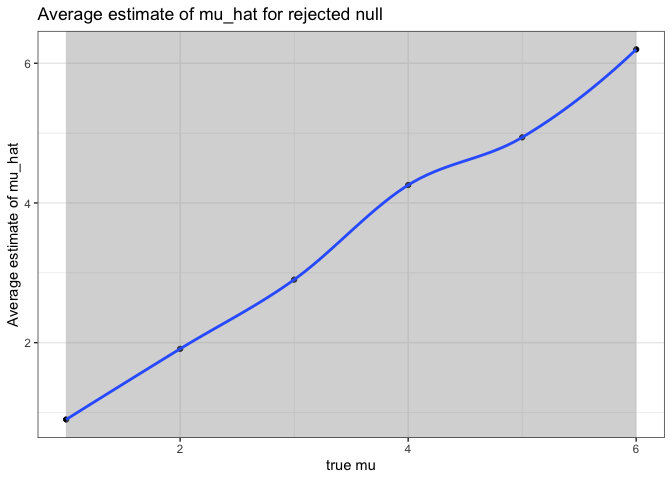
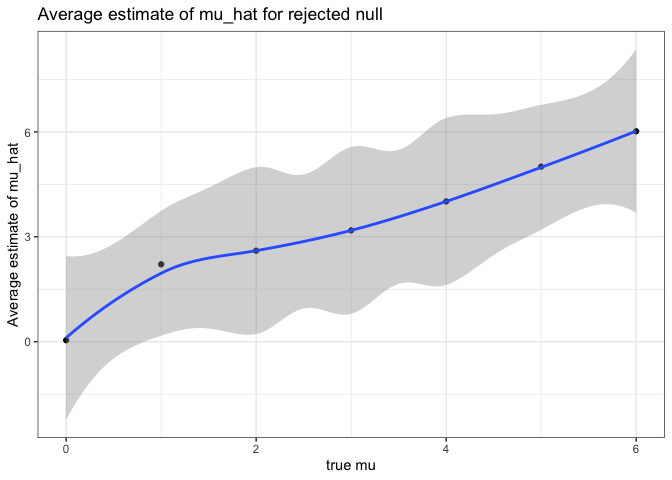
revised problem 3.

diff --git a/mf3593.md b/mf3593.md
@@ -125,7 +125,7 @@ set.seed(1)
 sim_mean_p=function(samp_size=30,mu,sigma=5) {
 
   x=rnorm(n=samp_size,mean=mu,sd=sigma)
-  result=t.test(x,mu=mu,conf.level=0.95)|>
+  result=t.test(x,mu=0,conf.level=0.95)|>
     broom::tidy()
   
   return(tibble(mu_hat=pull(result,estimate),
@@ -133,25 +133,19 @@ sim_mean_p=function(samp_size=30,mu,sigma=5) {
           mu_value=mu))
 }
 
-output=vector("list",5000)
-for (i in 1:5000) {
-  output[[i]]=sim_mean_p(mu=0)
-}
-sim_results=bind_rows(output)
+output2=vector("list",35000)
+main_output=vector("list",7)
 
-output2=vector("list",30000)
-main_output=vector("list",6)
-
-for (a in 1:6){
+for (a in 0:6){
   for (i in 1:5000) {
   output2[[i]]=sim_mean_p(mu=a)
   }
-  main_output[[a]]=bind_rows(output2)
+  main_output[[a+1]]=bind_rows(output2)
 }
 sim_results_2=bind_rows(main_output)
 
 sim_results_2|>
-  mutate(null=ifelse(p_value<0.05,1,0))|>
+  mutate(null=as.numeric(p_value<0.05))|>
   group_by(mu_value)|>
   summarise(ratio=sum(null)/n())|>
   ggplot(aes(x=mu_value,y=ratio))+
